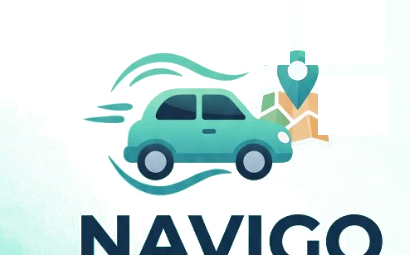
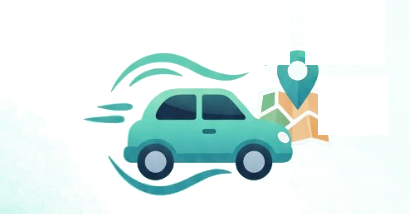
feat: mo rong toan man hinh va tu dong thich ung responsive cho PC va may tinh bang

diff --git a/frontend/css/loading-splash.css b/frontend/css/loading-splash.css
@@ -1,9 +1,9 @@
 /* ==========================================================================
-   NAVIGO EV PLATFORM — LUXURY SPLASH & LOADING SCREEN STYLES & ANIMATIONS
-   Authentic replica of Navigo mobile onboarding with micro-interactions
+   NAVIGO EV PLATFORM — RESPONSIVE SPLASH & LOADING SCREEN (MOBILE, TABLET & PC)
+   Full-screen responsive adaptive loading with authentic GSM animations
    ========================================================================== */
 
-/* Fullscreen Backdrop */
+/* Fullscreen Immersive Loading Backdrop (100% Viewport across Mobile, Tablet & PC) */
 .navigo-loading-backdrop,
 .navigo-welcome-splash {
     position: fixed;
@@ -11,7 +11,7 @@
     width: 100vw;
     height: 100vh;
     z-index: 2147483647;
-    background: radial-gradient(circle at 50% 30%, #154558 0%, #0a1f29 100%);
+    background: linear-gradient(180deg, #dcfaf3 0%, #edfef9 28%, #d5f7ef 65%, #9ae7d2 100%);
     display: flex;
     align-items: center;
     justify-content: center;
@@ -27,55 +27,47 @@
     visibility: hidden !important;
 }
 
-/* App Viewport Container (Native Mobile Look on PC, Full Screen on Mobile) */
+/* Adaptive App Viewport Container (Seamlessly expands to full screen on all devices) */
 .loading-app-container {
-    width: 100%;
-    max-width: 440px;
-    height: 100%;
-    max-height: 100vh;
+    width: 100% !important;
+    max-width: 100% !important;
+    height: 100% !important;
+    max-height: 100vh !important;
     position: relative;
-    background: linear-gradient(180deg, #dcfaf3 0%, #edfef9 28%, #d5f7ef 65%, #9ae7d2 100%);
+    background: transparent !important;
     display: flex;
     flex-direction: column;
     align-items: center;
     justify-content: space-between;
-    padding: 50px 24px 44px;
+    padding: clamp(32px, 6vh, 64px) 24px clamp(24px, 5vh, 48px);
     overflow: hidden;
-    box-shadow: 0 30px 80px rgba(0, 0, 0, 0.55);
+    border: none !important;
+    border-radius: 0 !important;
+    box-shadow: none !important;
 }
 
-@media (min-width: 1025px) {
-    .loading-app-container {
-        height: 890px;
-        max-height: 92vh;
-        border-radius: 46px;
-        border: 7px solid rgba(255, 255, 255, 0.35);
-        box-shadow: 0 35px 90px rgba(0, 0, 0, 0.65), 0 0 0 1px rgba(0, 177, 169, 0.3);
-    }
-}
-
-/* 1. Authentic Street Map Blueprint Texture at bottom */
+/* 1. Authentic Street Map Blueprint Texture across bottom */
 .bg-map-texture {
     position: absolute;
     bottom: 0;
     left: 0;
     width: 100%;
-    height: 52%;
+    height: clamp(320px, 55vh, 650px);
     background: url('../assets/gsm/loading_map_bottom.jpg') no-repeat center bottom;
     background-size: cover;
     mix-blend-mode: multiply;
-    opacity: 0.38;
+    opacity: 0.35;
     pointer-events: none;
     z-index: 1;
 }
 
-/* 2. Flowing Animated Dashed GPS Track */
+/* 2. Flowing Animated Dashed GPS Road Curves */
 .bg-gps-svg {
     position: absolute;
-    bottom: 20px;
-    left: -15%;
-    width: 130%;
-    height: 380px;
+    bottom: 0;
+    left: 0;
+    width: 100%;
+    height: clamp(260px, 45vh, 550px);
     pointer-events: none;
     z-index: 2;
     overflow: visible;
@@ -153,15 +145,15 @@
     margin-bottom: auto;
 }
 
-/* Illustration Container */
+/* Illustration Container (Responsive Scalable across Mobile, Tablet & PC) */
 .illustration-box {
     position: relative;
-    width: 320px;
-    height: 200px;
+    width: clamp(300px, 36vw, 460px);
+    height: clamp(165px, 20vw, 250px);
     display: flex;
     align-items: center;
     justify-content: center;
-    margin-bottom: 20px;
+    margin-bottom: clamp(16px, 2.6vh, 30px);
 }
 
 /* Base Car + Map Illustration with Suspension Floating */
@@ -206,27 +198,27 @@
 }
 
 .wind-streak.w1 {
-    top: 55px;
-    left: 20px;
-    width: 75px;
+    top: 28%;
+    left: 8%;
+    width: 25%;
     animation-delay: 0.1s;
 }
 .wind-streak.w2 {
-    top: 98px;
-    left: 8px;
-    width: 105px;
+    top: 50%;
+    left: 4%;
+    width: 32%;
     animation-delay: 0.5s;
 }
 .wind-streak.w3 {
-    top: 138px;
-    left: 28px;
-    width: 80px;
+    top: 70%;
+    left: 10%;
+    width: 26%;
     animation-delay: 0.9s;
 }
 .wind-streak.w4 {
-    top: 162px;
-    left: 45px;
-    width: 90px;
+    top: 82%;
+    left: 15%;
+    width: 28%;
     animation-delay: 0.3s;
 }
 
@@ -251,10 +243,10 @@
 /* Radar Beacon Glow Pulse on Map Location Pin */
 .pin-radar-beacon {
     position: absolute;
-    top: 24%;
+    top: 27%;
     left: 71.5%;
-    width: 20px;
-    height: 20px;
+    width: clamp(18px, 2.2vw, 24px);
+    height: clamp(18px, 2.2vw, 24px);
     border-radius: 50%;
     background: rgba(0, 177, 169, 0.45);
     pointer-events: none;
@@ -286,26 +278,26 @@
 }
 
 .service-bubble.b-food {
-    top: 4%;
+    top: 3%;
     left: 55.5%;
-    width: 48px;
-    height: 48px;
+    width: clamp(44px, 4.8vw, 60px);
+    height: clamp(44px, 4.8vw, 60px);
     animation: floatBubbleFood 2.8s ease-in-out infinite;
 }
 
 .service-bubble.b-package {
-    top: 2%;
+    top: 1%;
     left: 79%;
-    width: 49px;
-    height: 49px;
+    width: clamp(44px, 4.8vw, 62px);
+    height: clamp(44px, 4.8vw, 62px);
     animation: floatBubblePackage 3.2s ease-in-out infinite 0.4s;
 }
 
 .service-bubble.b-bus {
-    top: 35%;
+    top: 36%;
     left: 81%;
-    width: 46px;
-    height: 42px;
+    width: clamp(40px, 4.5vw, 56px);
+    height: clamp(36px, 4vw, 50px);
     animation: floatBubbleBus 2.6s ease-in-out infinite 0.8s;
 }
 
@@ -336,20 +328,20 @@
     }
 }
 
-/* Typography Styling */
+/* Typography Styling (Fully Responsive) */
 .brand-headline-box {
     text-align: center;
     animation: brandEnter 0.9s cubic-bezier(0.16, 1, 0.3, 1) both;
 }
 
 .brand-name {
-    font-size: 2.45rem;
+    font-size: clamp(2.4rem, 4.2vw, 3.8rem);
     font-weight: 900;
     color: #0f2d3c;
-    letter-spacing: 1.8px;
+    letter-spacing: clamp(1.6px, 0.25vw, 3.2px);
     margin: 0;
     line-height: 1.1;
-    text-shadow: 0 2px 10px rgba(15, 45, 60, 0.08);
+    text-shadow: 0 2px 12px rgba(15, 45, 60, 0.08);
     position: relative;
     display: inline-block;
 }
@@ -372,7 +364,7 @@
 }
 
 .brand-greeting {
-    font-size: 1.95rem;
+    font-size: clamp(1.85rem, 3vw, 2.7rem);
     font-weight: 700;
     color: #133e4d;
     margin-top: 6px;
@@ -398,15 +390,15 @@
     flex-direction: column;
     align-items: center;
     justify-content: center;
-    margin-bottom: 24px;
+    margin-bottom: clamp(16px, 3vh, 32px);
 }
 
 /* Spinner Wrapper with Soft Glow */
 .spinner-halo-wrap {
     position: relative;
-    width: 52px;
-    height: 52px;
-    margin-bottom: 18px;
+    width: clamp(50px, 5.5vw, 62px);
+    height: clamp(50px, 5.5vw, 62px);
+    margin-bottom: 16px;
     display: flex;
     align-items: center;
     justify-content: center;
@@ -432,8 +424,8 @@
 }
 
 .spinner-circle-ring {
-    width: 48px;
-    height: 48px;
+    width: clamp(46px, 5vw, 56px);
+    height: clamp(46px, 5vw, 56px);
     border-radius: 50%;
     border: 4.5px solid rgba(0, 177, 169, 0.2);
     border-top-color: #00b1a9;
@@ -453,10 +445,10 @@
 
 /* Status Text */
 .status-primary-text {
-    font-size: 1rem;
+    font-size: clamp(0.98rem, 1.3vw, 1.25rem);
     font-weight: 700;
     color: #0f3544;
-    margin-bottom: 5px;
+    margin-bottom: 6px;
     display: flex;
     align-items: center;
     letter-spacing: 0.2px;
@@ -478,7 +470,7 @@
 }
 
 .status-secondary-text {
-    font-size: 0.88rem;
+    font-size: clamp(0.88rem, 1.1vw, 1.05rem);
     color: #476f82;
     font-weight: 500;
     letter-spacing: 0.1px;
